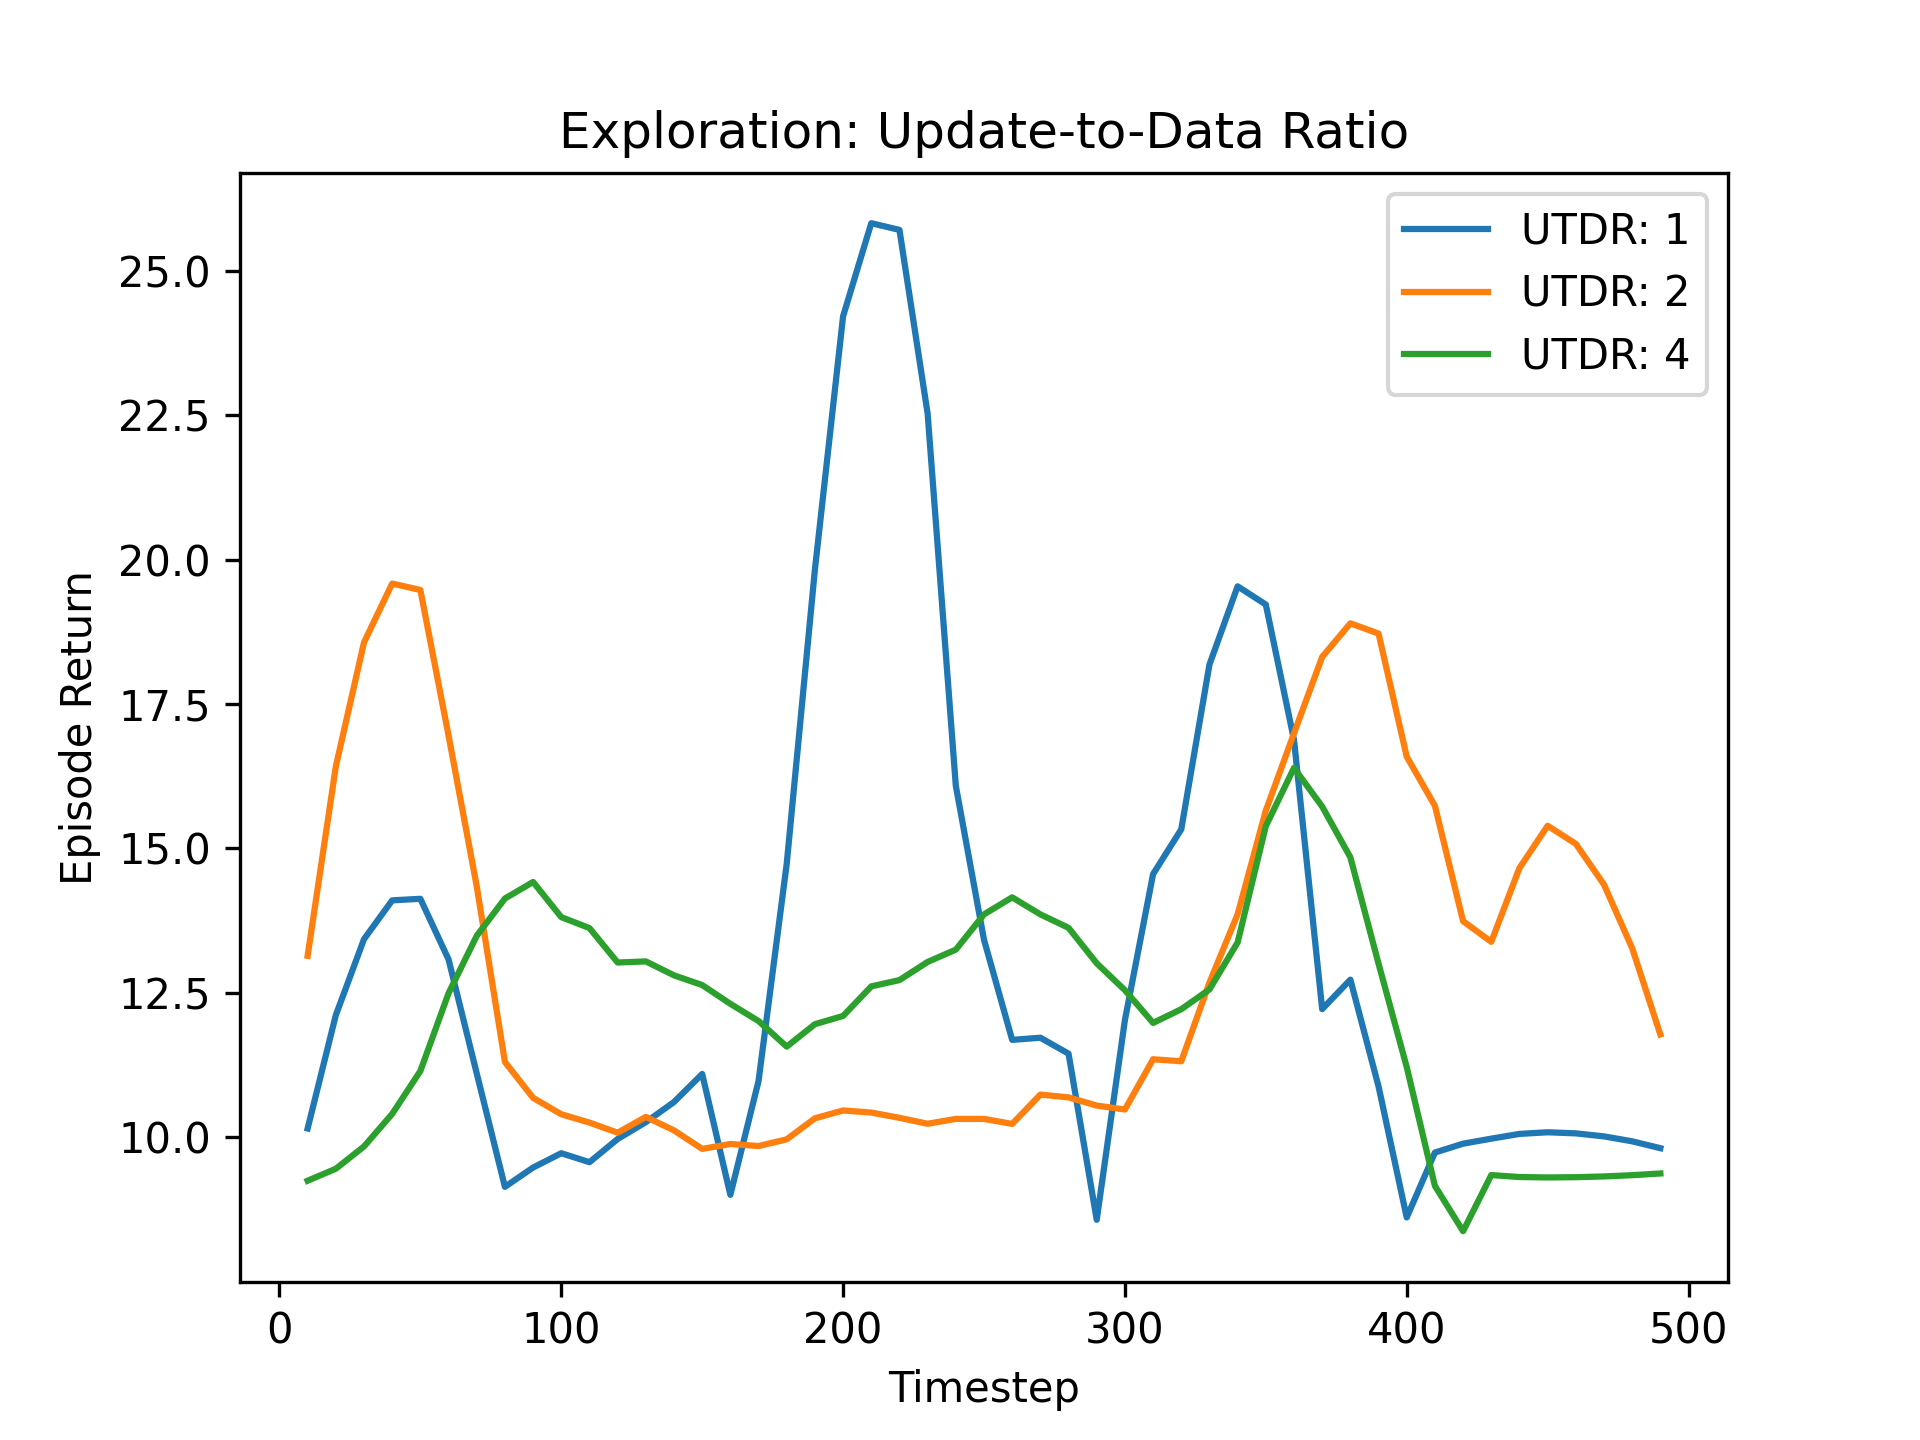
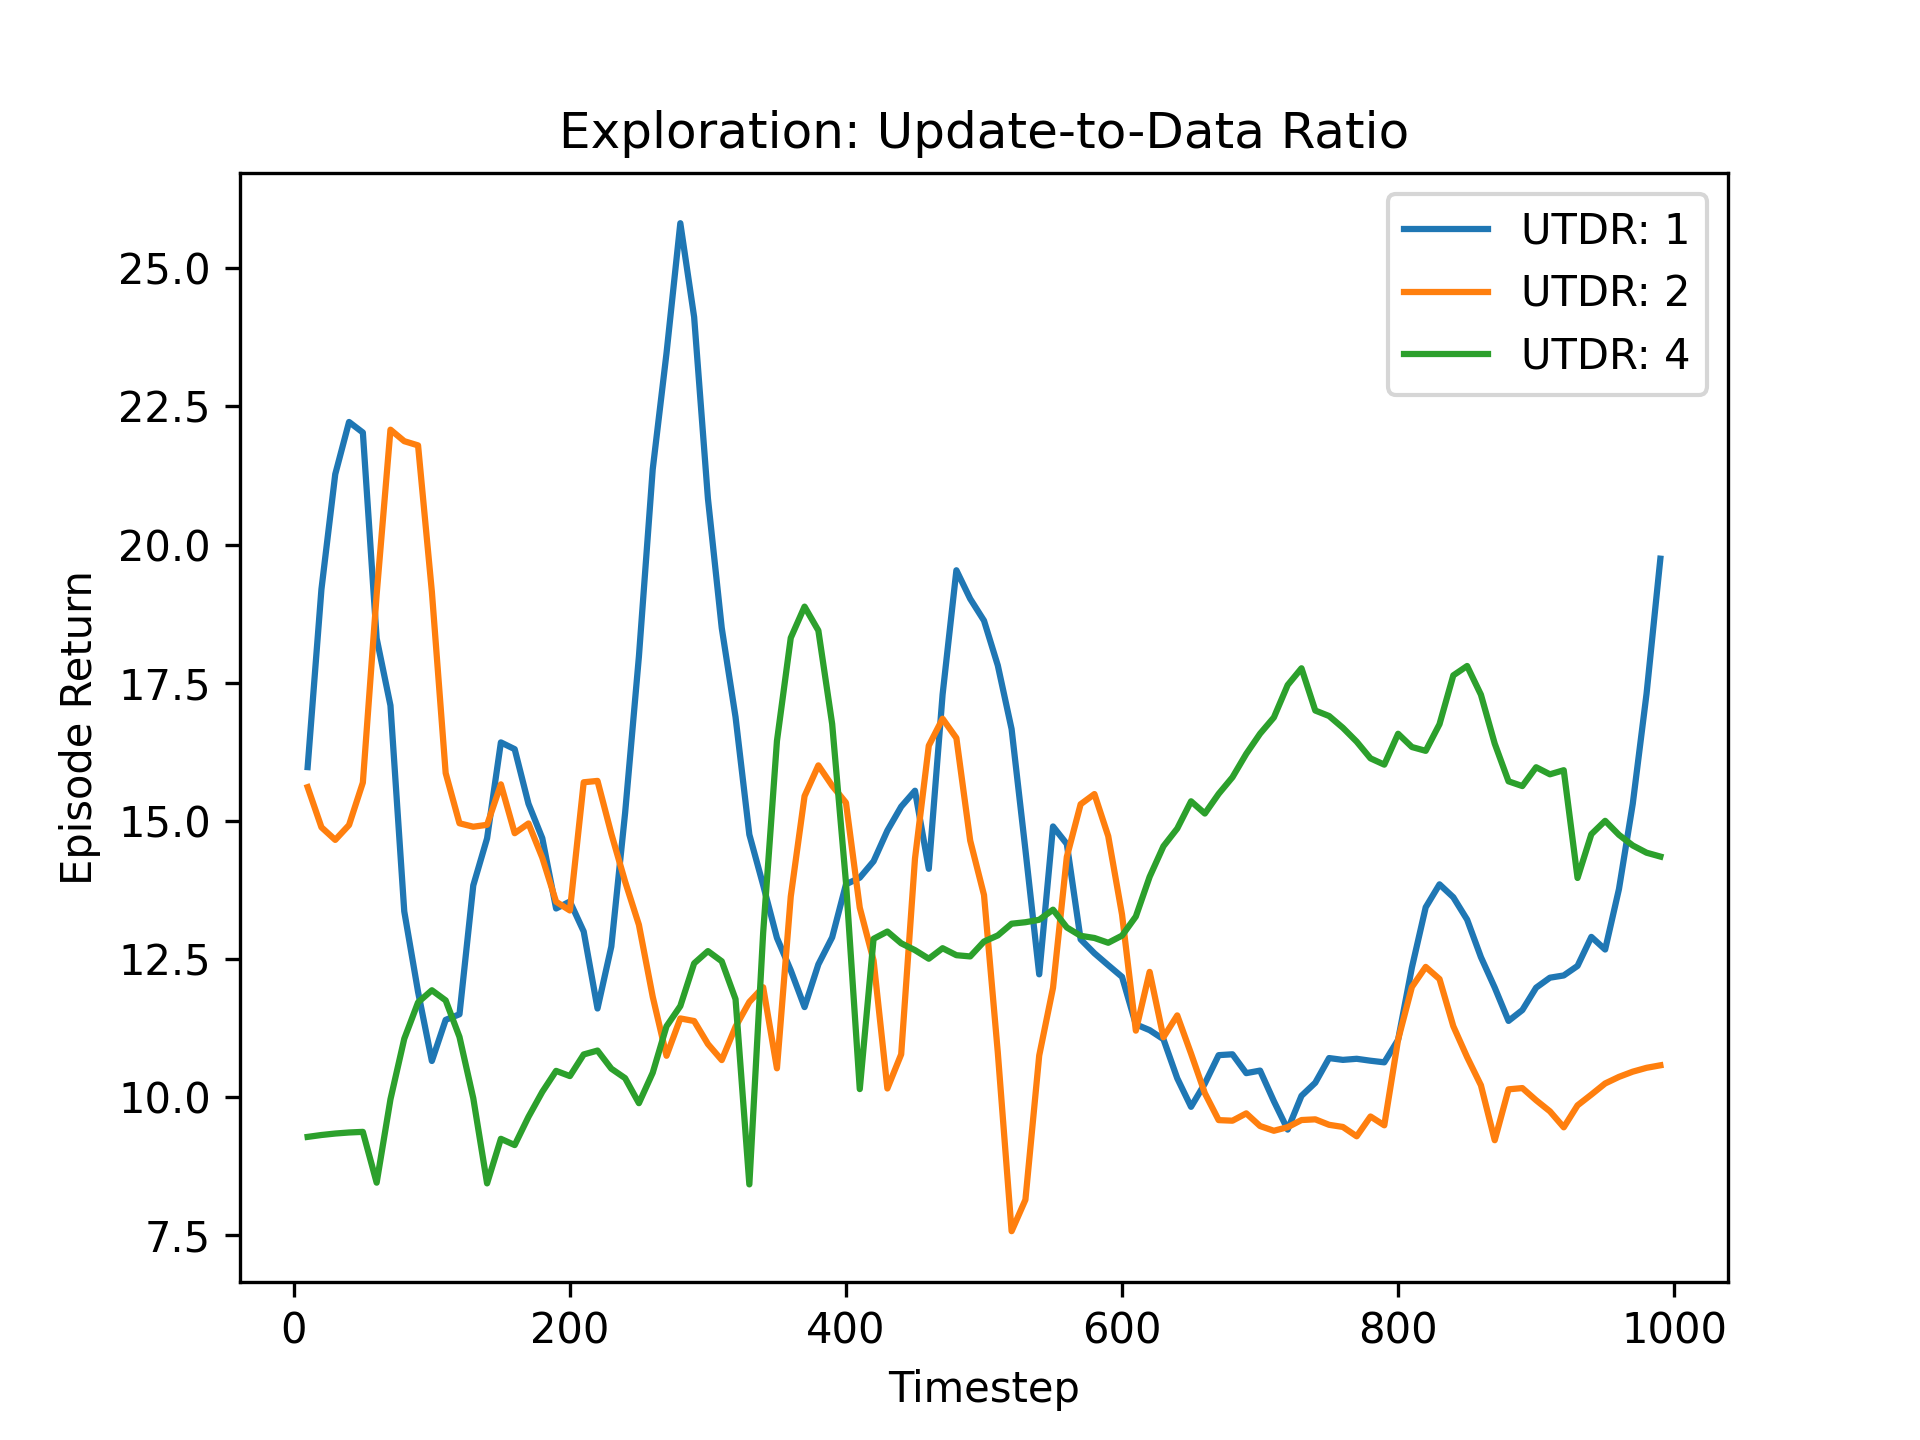
First big experiment finished

diff --git a/Experiment.py b/Experiment.py
@@ -20,14 +20,14 @@ from Helper import LearningCurvePlot, smooth
 
 def average_over_repetitions(n_repetitions, n_episodes, learning_rate, gamma, policy='egreedy', 
                     epsilon=None, temp=None, smoothing_window=None, plot=False, eval_interval=500, 
-                    neurons=128, UTDR=1, len_buffer=10000, len_batch=64):
+                    neurons=128, UTDR=1, len_buffer=10000, len_batch=64, ER=False, TN=False):
 
     returns_over_repetitions = []
     now = time.time()
     
     for rep in tqdm(range(n_repetitions), total=n_repetitions): # Loop over repetitions
         returns, episodes = dqn(n_episodes, learning_rate, gamma, policy, epsilon, temp, plot, eval_interval, 
-                                neurons, UTDR, len_buffer, len_batch)
+                                neurons, UTDR, len_buffer, len_batch, ER, TN)
         returns_over_repetitions.append(returns)
         
     print('Running one setting takes {} minutes'.format((time.time()-now)/60))
@@ -44,23 +44,28 @@ def experiment():
     plot = False # Plotting is very slow, switch it off when we run repetitions
     
     # MDP    
-    n_episodes = 500 # Set one extra timestep to ensure evaluation at start and end
+    n_episodes = 1000 # Set one extra timestep to ensure evaluation at start and end
     eval_interval = 10
     max_episode_length = 500
     gamma = 0.99
     
-
+    
     # Parameters we will vary in the experiments, set them to some initial values: 
     # Exploration
     policy = 'egreedy' # 'egreedy' or 'softmax' 
-    epsilon = 0.05
+    epsilon = 0.1
     temp = 1.0
-    learning_rate = 0.01
+    learning_rate = 0.001
     neurons = 128
     UTDR = 1
+    len_buffer = 10000
+    len_batch = 64
+    ER = False
+    TN = False
 
     # Learning Rate
     if LR_explore:
+        print('Exploring Learning Rate')
         learning_rates = [0.001, 0.01, 0.1]
         Plot = LearningCurvePlot(title = 'Exploration: Learning Rate')
         for learning_rate in learning_rates:
@@ -71,6 +76,7 @@ def experiment():
 
     # Network Size
     if NS_explore:
+        print('Exploring Network Size')
         neurons_size = [32, 64, 128]
         Plot = LearningCurvePlot(title = 'Exploration: Network Size')
         for network_size in neurons_size:
@@ -81,6 +87,7 @@ def experiment():
 
     # Update-to-Data Ratio
     if UTDR_explore:
+        print('Exploring Update-to-Data Ratio')
         UTDRs = [1, 2, 4]
         Plot = LearningCurvePlot(title = 'Exploration: Update-to-Data Ratio')
         for UTDR in UTDRs:
@@ -91,6 +98,7 @@ def experiment():
 
     # Exploration Factor
     if EF_explore:
+        print('Exploring Exploration Factor')
         policy = 'egreedy'
         epsilons = [0.03,0.1,0.3]
         Plot = LearningCurvePlot(title = 'Exploration: Exploration Factor (greedy)')
@@ -100,8 +108,19 @@ def experiment():
             Plot.add_curve(episodes, learning_curve, label = 'Epsilon: {}'.format(epsilon))
         Plot.save('Epsilon.png')
 
+    if configurations:
+        print('Exploring Configurations')
+        configs = [('DQN - Naive', False, False), ('DQN - TN', False, True), ('DQN - ER', True, False), ('DQN - TN + ER', True, True)]
+        Plot = LearningCurvePlot(title = 'Exploration: Configurations')
+        for config in configs:
+            learning_curve, episodes = average_over_repetitions(n_repetitions, n_episodes, learning_rate, gamma, policy, epsilon, temp,
+                                                                smoothing_window, plot, eval_interval, neurons, UTDR, len_buffer, len_batch, config[1], config[2])
+            Plot.add_curve(episodes, learning_curve, label = config[0])
+        Plot.save('Configurations.png')
+
+
 if __name__ == '__main__':
-    global LR_explore, NS_explore, UTDR_epxlore, EF_explore
-    LR_explore, NS_explore, UTDR_explore, EF_explore = True, True, True, True
+    global LR_explore, NS_explore, UTDR_epxlore, EF_explore, configurations
+    LR_explore, NS_explore, UTDR_explore, EF_explore, configurations = True, True, True, True, True
 
     experiment()

diff --git a/DQN.py b/DQN.py
@@ -93,6 +93,8 @@ def dqn(n_episodes, learning_rate, gamma, policy='egreedy', epsilon=None, temp=N
         UTDR (int): Update-to-Data Ratio
         len_buffer (int): size of the replay buffer
         len_batch (int): batch size for training
+        ER (bool): whether to use experience replay
+        TN (bool): whether to use a target network
     
     Returns:
         np.array: evaluation returns
